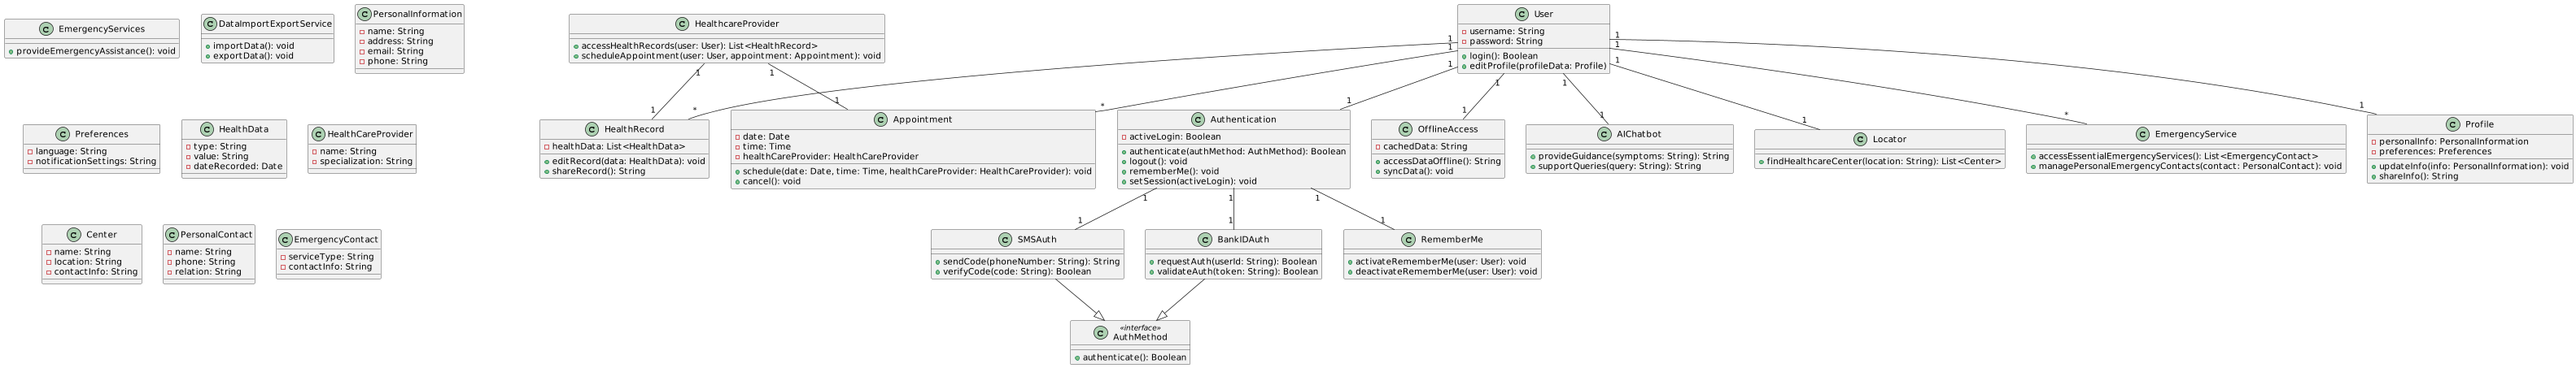
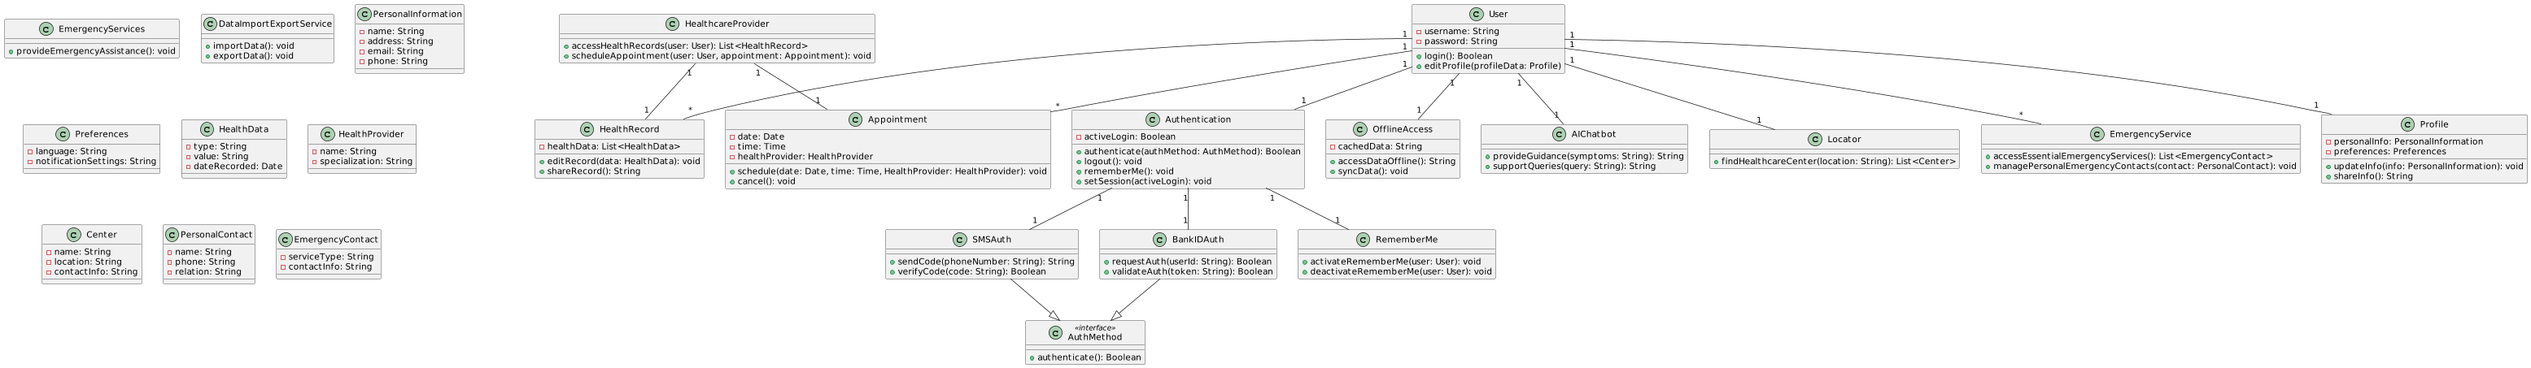
update java code

diff --git a/7-Implementation/Appointment.java b/7-Implementation/Appointment.java
@@ -3,9 +3,9 @@ import java.util.Date;
 public class Appointment {
     private Date date;
     private Time time; // You might need to define a Time class or use a Java Time API
-    private Doctor doctor;
+    private HealthProvider healthProvider;
 
-    public void schedule(Date date, Time time, Doctor doctor) {
+    public void schedule(Date date, Time time, HealthProvider healthProvider) {
         // Implementation
     }
 

diff --git a/7-Implementation/HealthProvider.java b/7-Implementation/HealthProvider.java
@@ -1,4 +1,4 @@
-public class Doctor {
+public class HealthProvider {
     private String name;
     private String specialization;
 
